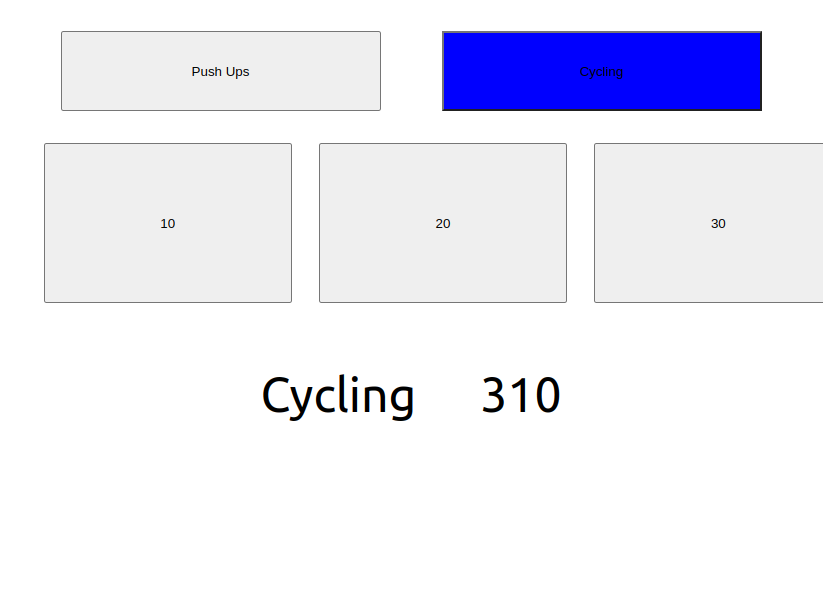
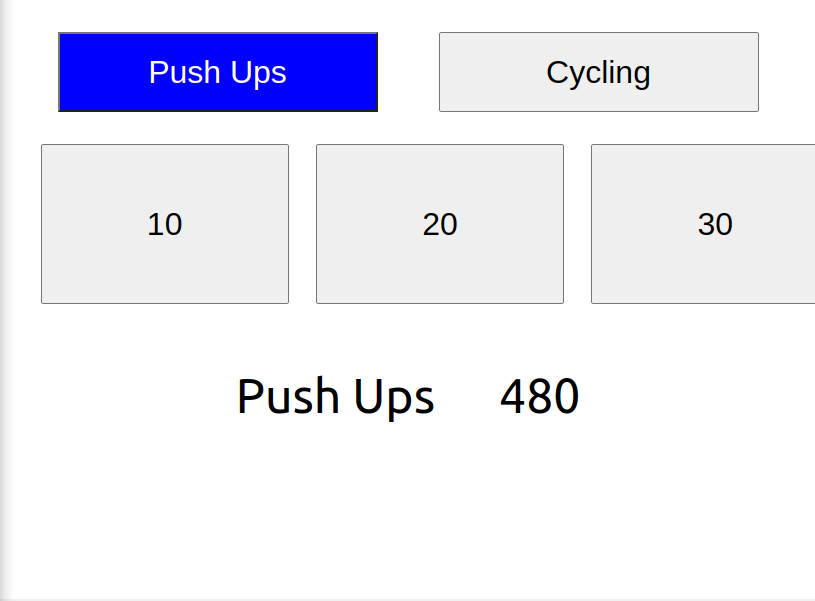
Update font sizes

diff --git a/src/components/Categories.tsx b/src/components/Categories.tsx
@@ -19,8 +19,8 @@ const Categories: React.FC<Props> = ({ categories, selectedCategory }) => {
     <div style={{display: 'flex', justifyContent: 'space-around', margin: '2rem'}}>
         {categories.map(c => <button 
           style={selectedCategory == c.name ? 
-          {width: '20rem', height: '5rem', background: 'blue'}: 
-          {width: '20rem', height: '5rem'} } key={c.id} 
+          {width: '20rem', height: '5rem', background: 'blue', fontSize: '2rem', color: 'white'}: 
+          {width: '20rem', height: '5rem', fontSize: '2rem'} } key={c.id} 
           onClick={() => dispatchSelection(c.name)}>{c.name}</button>)}
       </div>
   );

diff --git a/src/components/SprintIntervals.tsx b/src/components/SprintIntervals.tsx
@@ -13,7 +13,7 @@ const SprintIntervalComponent: React.FC<SprintIntervalProps> = ({ intervals }) =
 
   return (
     <div style={{display: 'flex', width: '100%', justifyContent: 'space-around', margin: '2rem' }}>
-      {intervals.map(i => <button style={{width: '30%', height: '10rem'}} key={i.value} onClick={() => newLocal(i.value)}>{i.value}</button>)}
+      {intervals.map(i => <button style={{width: '30%', height: '10rem', fontSize: '2rem'}} key={i.value} onClick={() => newLocal(i.value)}>{i.value}</button>)}
     </div>
   );
 }
